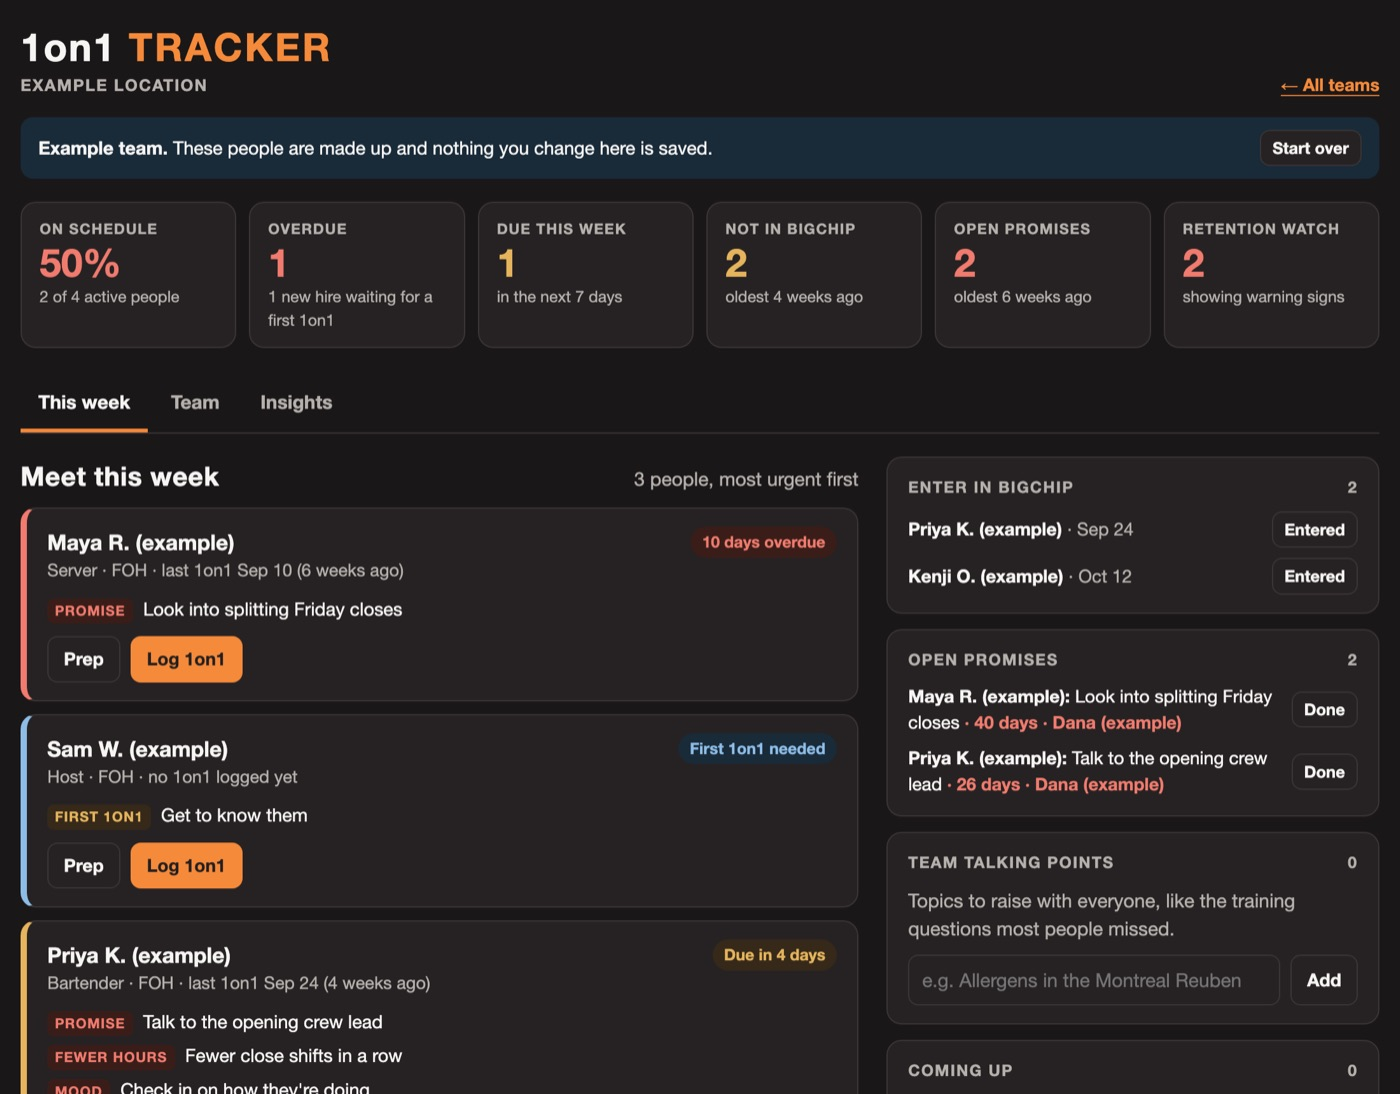
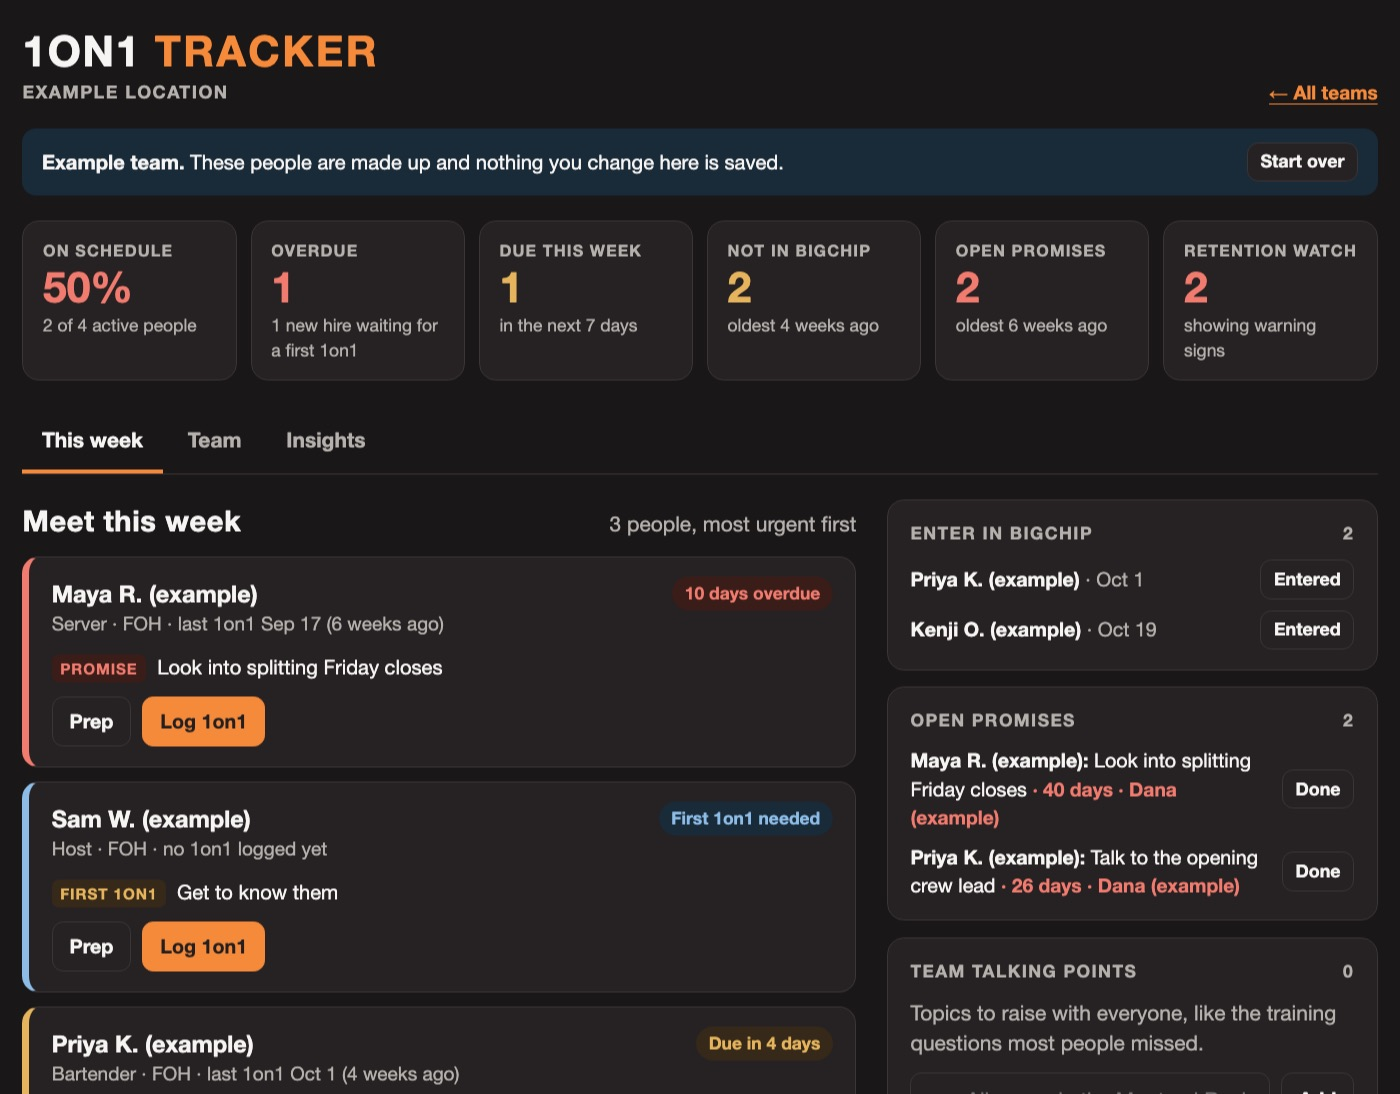
KERED Hospitality Group header, new screenshot, no eyebrow line

diff --git a/index.html b/index.html
@@ -4,8 +4,8 @@
 <meta charset="utf-8">
 <meta name="robots" content="noindex, nofollow">
 <meta name="viewport" content="width=device-width,initial-scale=1,viewport-fit=cover">
-<title>1on1 Tracker · Browns Socialhouse</title>
-<meta name="description" content="The 1on1 tracker for Browns Socialhouse management teams. Sign in with your email.">
+<title>1ON1 Tracker · KERED Hospitality Group</title>
+<meta name="description" content="The 1on1 tracker for KERED Hospitality Group management teams. Sign in with your email.">
 <style>
 /* Public welcome page: shown before sign-in (Cloudflare Access bypasses /welcome). Signed-in visitors are sent straight to the tracker. */
 :root{
@@ -24,7 +24,7 @@ a{color:inherit}
 :focus-visible{outline:2px solid var(--accent);outline-offset:3px}
 
 .top{display:flex;justify-content:space-between;align-items:center;gap:16px;flex-wrap:wrap}
-.wordmark{font-family:var(--display);font-size:.72rem;letter-spacing:.24em;text-transform:uppercase;color:var(--muted)}
+.wordmark{font-family:var(--display);font-size:.78rem;letter-spacing:.06em;color:var(--muted)}
 .wordmark b{color:var(--fg)}
 .locsel{display:grid;gap:6px;margin-top:26px;font-weight:700;font-size:.9rem;max-width:20em}
 .locsel select{font:inherit;font-weight:400;padding:11px 12px;border-radius:10px;border:1px solid var(--line);background:var(--surface);color:var(--fg)}
@@ -75,15 +75,14 @@ footer{margin-top:40px;color:var(--muted);font-size:.88rem;display:flex;justify-
 <body>
 <div class="wrap">
   <header class="top">
-    <div class="wordmark">Kered <b>Hospitality Group</b></div>
+    <div class="wordmark"><b>KERED</b> Hospitality Group</div>
     <a class="signin-sm signin" href="https://1on1-tracker.pages.dev/">Sign in</a>
   </header>
 
   <main>
     <section class="hero">
       <div>
-        <div class="eyebrow">For Browns Socialhouse management teams</div>
-        <h1>1on1 <span>Tracker</span></h1>
+        <h1>1ON1 <span>Tracker</span></h1>
         <p class="lede">Never miss a 1on1. See who's due, what you promised, and how training's going.</p>
         <label class="locsel">Your location
           <select id="loc">
@@ -143,7 +142,7 @@ footer{margin-top:40px;color:var(--muted);font-size:.88rem;display:flex;justify-
   </main>
 
   <footer>
-    <span>Browns Socialhouse</span>
+    <span>KERED Hospitality Group</span>
   </footer>
 </div>
 <script src="location.js"></script>
